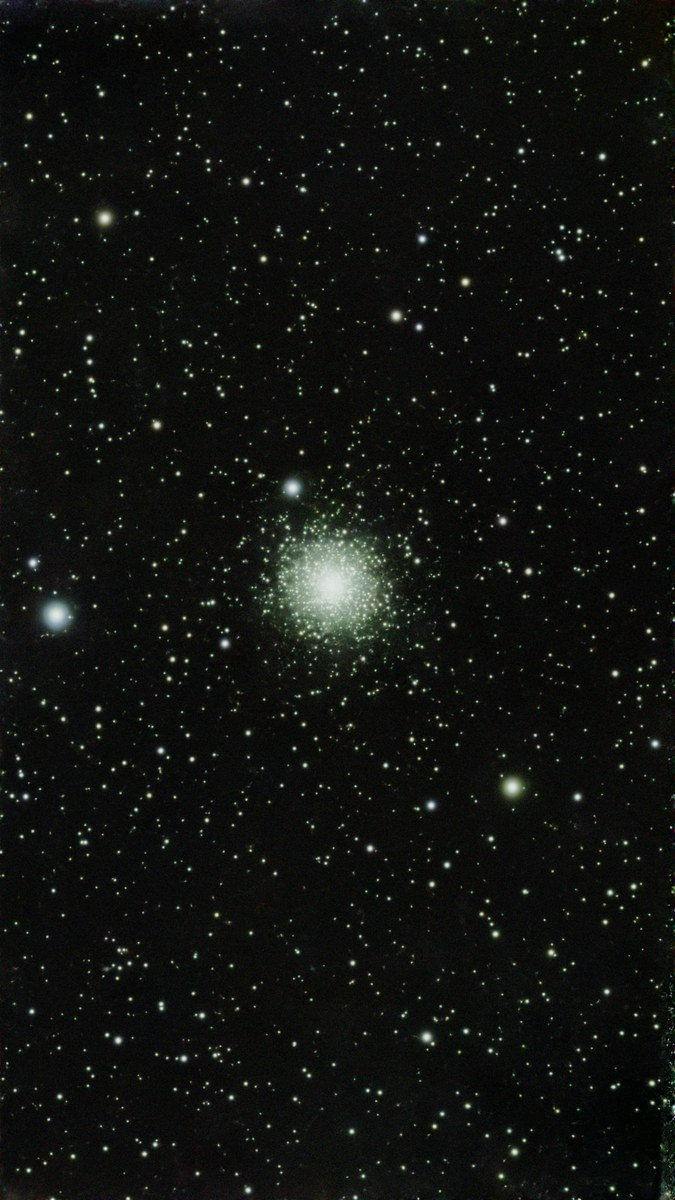
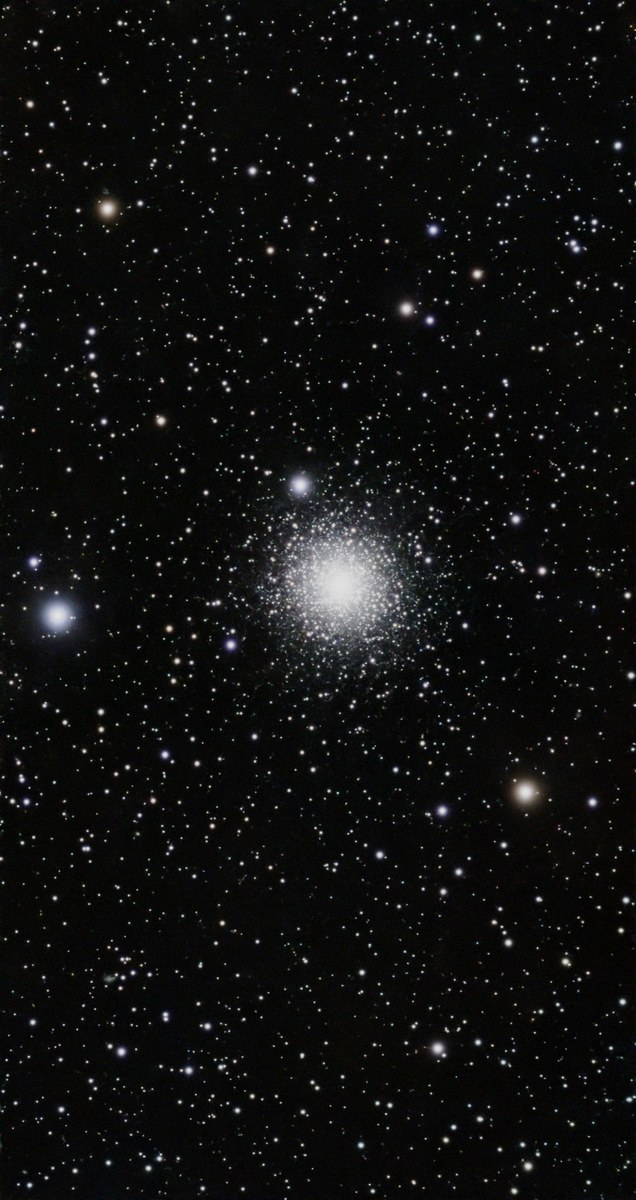
Nightly export: 2026-10-03

diff --git a/gallery.html b/gallery.html
@@ -89,114 +89,114 @@ FINISH: unreviewed and undocumented is unfinished; this build ends with the fini
 <div class="meta"><h2 class="t">M 66</h2>
 <span class="s" title="NOVA's recorded assessment">NOVA / 8.3</span></div><div class="card-foot"><a class="recipe-link" href="/recipes/20260715_194614_seestar_galaxy/">Episode recipe →</a></div></article><article class="card"><figure><img src="img/ic-1805.jpg" alt="IC 1805" loading="lazy"></figure>
 <div class="meta"><h2 class="t">IC 1805</h2>
+<span class="s" title="NOVA's recorded assessment">NOVA / 8.2</span></div></article><article class="card"><figure><img src="img/m-8.jpg" alt="M 8" loading="lazy"></figure>
+<div class="meta"><h2 class="t">M 8</h2>
 <span class="s" title="NOVA's recorded assessment">NOVA / 8.2</span></div></article><article class="card"><figure><img src="img/m-42.jpg" alt="M 42" loading="lazy"></figure>
 <div class="meta"><h2 class="t">M 42</h2>
 <span class="s" title="NOVA's recorded assessment">NOVA / 8.2</span></div></article><article class="card"><figure><img src="img/m-101.jpg" alt="M 101" loading="lazy"></figure>
 <div class="meta"><h2 class="t">M 101</h2>
-<span class="s" title="NOVA's recorded assessment">NOVA / 8.2</span></div></article><article class="card"><figure><img src="img/m-8.jpg" alt="M 8" loading="lazy"></figure>
-<div class="meta"><h2 class="t">M 8</h2>
 <span class="s" title="NOVA's recorded assessment">NOVA / 8.2</span></div></article><article class="card"><figure><img src="img/m-45.jpg" alt="M 45" loading="lazy"></figure>
 <div class="meta"><h2 class="t">M 45</h2>
-<span class="s" title="NOVA's recorded assessment">NOVA / 8.2</span></div></article><article class="card"><figure><img src="img/m-13.jpg" alt="M 13" loading="lazy"></figure>
-<div class="meta"><h2 class="t">M 13</h2>
-<span class="s" title="NOVA's recorded assessment">NOVA / 7.8</span></div></article><article class="card"><figure><img src="img/ngc-7635.jpg" alt="NGC 7635" loading="lazy"></figure>
+<span class="s" title="NOVA's recorded assessment">NOVA / 8.2</span></div></article><article class="card"><figure><img src="img/ngc-7635.jpg" alt="NGC 7635" loading="lazy"></figure>
 <div class="meta"><h2 class="t">NGC 7635</h2>
-<span class="s" title="NOVA's recorded assessment">NOVA / 7.8</span></div></article><article class="card"><figure><img src="img/m-83.jpg" alt="M 83" loading="lazy"></figure>
-<div class="meta"><h2 class="t">M 83</h2>
-<span class="s" title="NOVA's recorded assessment">NOVA / 7.8</span></div></article><article class="card"><figure><img src="img/m-20.jpg" alt="M 20" loading="lazy"></figure>
-<div class="meta"><h2 class="t">M 20</h2>
-<span class="s" title="NOVA's recorded assessment">NOVA / 7.8</span></div></article><article class="card"><figure><img src="img/ngc-2359.jpg" alt="NGC 2359" loading="lazy"></figure>
-<div class="meta"><h2 class="t">NGC 2359</h2>
-<span class="s" title="NOVA's recorded assessment">NOVA / 7.8</span></div><div class="card-foot"><a class="recipe-link" href="/recipes/20260711_021336_seestar_nebula/">Episode recipe →</a></div></article><article class="card"><figure><img src="img/m-81.jpg" alt="M 81" loading="lazy"></figure>
-<div class="meta"><h2 class="t">M 81</h2>
-<span class="s" title="NOVA's recorded assessment">NOVA / 7.8</span></div></article><article class="card"><figure><img src="img/ngc-6888.jpg" alt="NGC 6888" loading="lazy"></figure>
-<div class="meta"><h2 class="t">NGC 6888</h2>
-<span class="s" title="NOVA's recorded assessment">NOVA / 7.8</span></div></article><article class="card"><figure><img src="img/sh-2-298.jpg" alt="SH 2-298" loading="lazy"></figure>
-<div class="meta"><h2 class="t">SH 2-298</h2>
 <span class="s" title="NOVA's recorded assessment">NOVA / 7.8</span></div></article><article class="card"><figure><img src="img/m-33.jpg" alt="M 33" loading="lazy"></figure>
 <div class="meta"><h2 class="t">M 33</h2>
+<span class="s" title="NOVA's recorded assessment">NOVA / 7.8</span></div></article><article class="card"><figure><img src="img/m-83.jpg" alt="M 83" loading="lazy"></figure>
+<div class="meta"><h2 class="t">M 83</h2>
+<span class="s" title="NOVA's recorded assessment">NOVA / 7.8</span></div></article><article class="card"><figure><img src="img/ngc-2359.jpg" alt="NGC 2359" loading="lazy"></figure>
+<div class="meta"><h2 class="t">NGC 2359</h2>
+<span class="s" title="NOVA's recorded assessment">NOVA / 7.8</span></div><div class="card-foot"><a class="recipe-link" href="/recipes/20260711_021336_seestar_nebula/">Episode recipe →</a></div></article><article class="card"><figure><img src="img/ngc-6888.jpg" alt="NGC 6888" loading="lazy"></figure>
+<div class="meta"><h2 class="t">NGC 6888</h2>
 <span class="s" title="NOVA's recorded assessment">NOVA / 7.8</span></div></article><article class="card"><figure><img src="img/m-27.jpg" alt="M 27" loading="lazy"></figure>
 <div class="meta"><h2 class="t">M 27</h2>
+<span class="s" title="NOVA's recorded assessment">NOVA / 7.8</span></div></article><article class="card"><figure><img src="img/m-81.jpg" alt="M 81" loading="lazy"></figure>
+<div class="meta"><h2 class="t">M 81</h2>
+<span class="s" title="NOVA's recorded assessment">NOVA / 7.8</span></div></article><article class="card"><figure><img src="img/m-13.jpg" alt="M 13" loading="lazy"></figure>
+<div class="meta"><h2 class="t">M 13</h2>
 <span class="s" title="NOVA's recorded assessment">NOVA / 7.8</span></div></article><article class="card"><figure><img src="img/m-16.jpg" alt="M 16" loading="lazy"></figure>
 <div class="meta"><h2 class="t">M 16</h2>
+<span class="s" title="NOVA's recorded assessment">NOVA / 7.8</span></div></article><article class="card"><figure><img src="img/sh-2-298.jpg" alt="SH 2-298" loading="lazy"></figure>
+<div class="meta"><h2 class="t">SH 2-298</h2>
+<span class="s" title="NOVA's recorded assessment">NOVA / 7.8</span></div></article><article class="card"><figure><img src="img/m-20.jpg" alt="M 20" loading="lazy"></figure>
+<div class="meta"><h2 class="t">M 20</h2>
 <span class="s" title="NOVA's recorded assessment">NOVA / 7.8</span></div></article><article class="card"><figure><img src="img/ic-1396.jpg" alt="IC 1396" loading="lazy"></figure>
 <div class="meta"><h2 class="t">IC 1396</h2>
-<span class="s" title="NOVA's recorded assessment">NOVA / 7.2</span></div></article><article class="card"><figure><img src="img/m-17.jpg" alt="M 17" loading="lazy"></figure>
-<div class="meta"><h2 class="t">M 17</h2>
-<span class="s" title="NOVA's recorded assessment">NOVA / 7.2</span></div></article><article class="card"><figure><img src="img/m-109.jpg" alt="M 109" loading="lazy"></figure>
-<div class="meta"><h2 class="t">M 109</h2>
-<span class="s" title="NOVA's recorded assessment">NOVA / 7.2</span></div></article><article class="card"><figure><img src="img/c-80.jpg" alt="C 80" loading="lazy"></figure>
-<div class="meta"><h2 class="t">C 80</h2>
-<span class="s" title="NOVA's recorded assessment">NOVA / 7.2</span></div></article><article class="card"><figure><img src="img/ngc-188.jpg" alt="NGC 188" loading="lazy"></figure>
-<div class="meta"><h2 class="t">NGC 188</h2>
-<span class="s" title="NOVA's recorded assessment">NOVA / 7.2</span></div></article><article class="card"><figure><img src="img/ic-342.jpg" alt="IC 342" loading="lazy"></figure>
-<div class="meta"><h2 class="t">IC 342</h2>
-<span class="s" title="NOVA's recorded assessment">NOVA / 7.2</span></div></article><article class="card"><figure><img src="img/c-77.jpg" alt="C 77" loading="lazy"></figure>
-<div class="meta"><h2 class="t">C 77</h2>
-<span class="s" title="NOVA's recorded assessment">NOVA / 7.2</span></div></article><article class="card"><figure><img src="img/m-56.jpg" alt="M 56" loading="lazy"></figure>
-<div class="meta"><h2 class="t">M 56</h2>
-<span class="s" title="NOVA's recorded assessment">NOVA / 7.2</span></div></article><article class="card"><figure><img src="img/ngc-6914.jpg" alt="NGC 6914" loading="lazy"></figure>
-<div class="meta"><h2 class="t">NGC 6914</h2>
-<span class="s" title="NOVA's recorded assessment">NOVA / 7.2</span></div></article><article class="card"><figure><img src="img/ngc-2175.jpg" alt="NGC 2175" loading="lazy"></figure>
-<div class="meta"><h2 class="t">NGC 2175</h2>
-<span class="s" title="NOVA's recorded assessment">NOVA / 7.2</span></div></article><article class="card"><figure><img src="img/sh-2-142.jpg" alt="SH 2- 142" loading="lazy"></figure>
-<div class="meta"><h2 class="t">SH 2- 142</h2>
-<span class="s" title="NOVA's recorded assessment">NOVA / 7.2</span></div></article><article class="card"><figure><img src="img/m-57.jpg" alt="M 57" loading="lazy"></figure>
-<div class="meta"><h2 class="t">M 57</h2>
-<span class="s" title="NOVA's recorded assessment">NOVA / 7.2</span></div></article><article class="card"><figure><img src="img/ngc-7023.jpg" alt="NGC 7023" loading="lazy"></figure>
-<div class="meta"><h2 class="t">NGC 7023</h2>
-<span class="s" title="NOVA's recorded assessment">NOVA / 7.2</span></div></article><article class="card"><figure><img src="img/m-3.jpg" alt="M 3" loading="lazy"></figure>
-<div class="meta"><h2 class="t">M 3</h2>
-<span class="s" title="NOVA's recorded assessment">NOVA / 7.2</span></div></article><article class="card"><figure><img src="img/m-92.jpg" alt="M 92" loading="lazy"></figure>
-<div class="meta"><h2 class="t">M 92</h2>
-<span class="s" title="NOVA's recorded assessment">NOVA / 7.2</span></div></article><article class="card"><figure><img src="img/ngc-7331.jpg" alt="NGC 7331" loading="lazy"></figure>
-<div class="meta"><h2 class="t">NGC 7331</h2>
-<span class="s" title="NOVA's recorded assessment">NOVA / 7.2</span></div></article><article class="card"><figure><img src="img/sh2-101.jpg" alt="SH2-101" loading="lazy"></figure>
-<div class="meta"><h2 class="t">SH2-101</h2>
 <span class="s" title="NOVA's recorded assessment">NOVA / 7.2</span></div></article><article class="card"><figure><img src="img/ngc-4565.jpg" alt="NGC 4565" loading="lazy"></figure>
 <div class="meta"><h2 class="t">NGC 4565</h2>
+<span class="s" title="NOVA's recorded assessment">NOVA / 7.2</span></div></article><article class="card"><figure><img src="img/c-77.jpg" alt="C 77" loading="lazy"></figure>
+<div class="meta"><h2 class="t">C 77</h2>
+<span class="s" title="NOVA's recorded assessment">NOVA / 7.2</span></div></article><article class="card"><figure><img src="img/m-15.jpg" alt="M 15" loading="lazy"></figure>
+<div class="meta"><h2 class="t">M 15</h2>
+<span class="s" title="NOVA's recorded assessment">NOVA / 7.2</span></div></article><article class="card"><figure><img src="img/m-3.jpg" alt="M 3" loading="lazy"></figure>
+<div class="meta"><h2 class="t">M 3</h2>
+<span class="s" title="NOVA's recorded assessment">NOVA / 7.2</span></div></article><article class="card"><figure><img src="img/m-57.jpg" alt="M 57" loading="lazy"></figure>
+<div class="meta"><h2 class="t">M 57</h2>
+<span class="s" title="NOVA's recorded assessment">NOVA / 7.2</span></div></article><article class="card"><figure><img src="img/ngc-188.jpg" alt="NGC 188" loading="lazy"></figure>
+<div class="meta"><h2 class="t">NGC 188</h2>
+<span class="s" title="NOVA's recorded assessment">NOVA / 7.2</span></div></article><article class="card"><figure><img src="img/ngc-2175.jpg" alt="NGC 2175" loading="lazy"></figure>
+<div class="meta"><h2 class="t">NGC 2175</h2>
+<span class="s" title="NOVA's recorded assessment">NOVA / 7.2</span></div></article><article class="card"><figure><img src="img/ngc-6914.jpg" alt="NGC 6914" loading="lazy"></figure>
+<div class="meta"><h2 class="t">NGC 6914</h2>
+<span class="s" title="NOVA's recorded assessment">NOVA / 7.2</span></div></article><article class="card"><figure><img src="img/m-92.jpg" alt="M 92" loading="lazy"></figure>
+<div class="meta"><h2 class="t">M 92</h2>
+<span class="s" title="NOVA's recorded assessment">NOVA / 7.2</span></div></article><article class="card"><figure><img src="img/ngc-7023.jpg" alt="NGC 7023" loading="lazy"></figure>
+<div class="meta"><h2 class="t">NGC 7023</h2>
+<span class="s" title="NOVA's recorded assessment">NOVA / 7.2</span></div></article><article class="card"><figure><img src="img/sh2-101.jpg" alt="SH2-101" loading="lazy"></figure>
+<div class="meta"><h2 class="t">SH2-101</h2>
 <span class="s" title="NOVA's recorded assessment">NOVA / 7.2</span></div></article><article class="card"><figure><img src="img/c-9.jpg" alt="C 9" loading="lazy"></figure>
 <div class="meta"><h2 class="t">C 9</h2>
+<span class="s" title="NOVA's recorded assessment">NOVA / 7.2</span></div></article><article class="card"><figure><img src="img/ic-342.jpg" alt="IC 342" loading="lazy"></figure>
+<div class="meta"><h2 class="t">IC 342</h2>
+<span class="s" title="NOVA's recorded assessment">NOVA / 7.2</span></div></article><article class="card"><figure><img src="img/m-109.jpg" alt="M 109" loading="lazy"></figure>
+<div class="meta"><h2 class="t">M 109</h2>
 <span class="s" title="NOVA's recorded assessment">NOVA / 7.2</span></div></article><article class="card"><figure><img src="img/m-1.jpg" alt="M 1" loading="lazy"></figure>
 <div class="meta"><h2 class="t">M 1</h2>
-<span class="s" title="NOVA's recorded assessment">NOVA / 7.2</span></div><div class="card-foot"><a class="recipe-link" href="/recipes/20260722_063635_seestar_broadband/">Episode recipe →</a></div></article><article class="card"><figure><img src="img/m-97.jpg" alt="M 97" loading="lazy"></figure>
+<span class="s" title="NOVA's recorded assessment">NOVA / 7.2</span></div><div class="card-foot"><a class="recipe-link" href="/recipes/20260722_063635_seestar_broadband/">Episode recipe →</a></div></article><article class="card"><figure><img src="img/c-80.jpg" alt="C 80" loading="lazy"></figure>
+<div class="meta"><h2 class="t">C 80</h2>
+<span class="s" title="NOVA's recorded assessment">NOVA / 7.2</span></div></article><article class="card"><figure><img src="img/ngc-7331.jpg" alt="NGC 7331" loading="lazy"></figure>
+<div class="meta"><h2 class="t">NGC 7331</h2>
+<span class="s" title="NOVA's recorded assessment">NOVA / 7.2</span></div></article><article class="card"><figure><img src="img/m-56.jpg" alt="M 56" loading="lazy"></figure>
+<div class="meta"><h2 class="t">M 56</h2>
+<span class="s" title="NOVA's recorded assessment">NOVA / 7.2</span></div></article><article class="card"><figure><img src="img/sh-2-142.jpg" alt="SH 2- 142" loading="lazy"></figure>
+<div class="meta"><h2 class="t">SH 2- 142</h2>
+<span class="s" title="NOVA's recorded assessment">NOVA / 7.2</span></div></article><article class="card"><figure><img src="img/m-17.jpg" alt="M 17" loading="lazy"></figure>
+<div class="meta"><h2 class="t">M 17</h2>
+<span class="s" title="NOVA's recorded assessment">NOVA / 7.2</span></div></article><article class="card"><figure><img src="img/m-52.jpg" alt="M 52" loading="lazy"></figure>
+<div class="meta"><h2 class="t">M 52</h2>
+<span class="s" title="NOVA's recorded assessment">NOVA / 7.0</span></div></article><article class="card"><figure><img src="img/m-97.jpg" alt="M 97" loading="lazy"></figure>
 <div class="meta"><h2 class="t">M 97</h2>
 <span class="s" title="NOVA's recorded assessment">NOVA / 7.0</span></div></article><article class="card"><figure><img src="img/sh-2-273.jpg" alt="SH 2- 273" loading="lazy"></figure>
 <div class="meta"><h2 class="t">SH 2- 273</h2>
 <span class="s" title="NOVA's recorded assessment">NOVA / 7.0</span></div></article><article class="card"><figure><img src="img/m-94.jpg" alt="M 94" loading="lazy"></figure>
 <div class="meta"><h2 class="t">M 94</h2>
-<span class="s" title="NOVA's recorded assessment">NOVA / 6.8</span></div></article><article class="card"><figure><img src="img/m-12.jpg" alt="M 12" loading="lazy"></figure>
-<div class="meta"><h2 class="t">M 12</h2>
-<span class="s" title="NOVA's recorded assessment">NOVA / 6.8</span></div></article><article class="card"><figure><img src="img/m-105.jpg" alt="M 105" loading="lazy"></figure>
-<div class="meta"><h2 class="t">M 105</h2>
 <span class="s" title="NOVA's recorded assessment">NOVA / 6.8</span></div></article><article class="card"><figure><img src="img/ngc-6334.jpg" alt="NGC 6334" loading="lazy"></figure>
 <div class="meta"><h2 class="t">NGC 6334</h2>
 <span class="s" title="NOVA's recorded assessment">NOVA / 6.8</span></div></article><article class="card"><figure><img src="img/m-100.jpg" alt="M 100" loading="lazy"></figure>
 <div class="meta"><h2 class="t">M 100</h2>
+<span class="s" title="NOVA's recorded assessment">NOVA / 6.8</span></div></article><article class="card"><figure><img src="img/m-12.jpg" alt="M 12" loading="lazy"></figure>
+<div class="meta"><h2 class="t">M 12</h2>
+<span class="s" title="NOVA's recorded assessment">NOVA / 6.8</span></div></article><article class="card"><figure><img src="img/m-105.jpg" alt="M 105" loading="lazy"></figure>
+<div class="meta"><h2 class="t">M 105</h2>
 <span class="s" title="NOVA's recorded assessment">NOVA / 6.8</span></div></article><article class="card"><figure><img src="img/m-71.jpg" alt="M 71" loading="lazy"></figure>
 <div class="meta"><h2 class="t">M 71</h2>
 <span class="s" title="NOVA's recorded assessment">NOVA / 6.7</span></div></article><article class="card"><figure><img src="img/m-102.jpg" alt="M 102" loading="lazy"></figure>
 <div class="meta"><h2 class="t">M 102</h2>
 <span class="s" title="NOVA's recorded assessment">NOVA / 6.6</span></div></article><article class="card"><figure><img src="img/m-39.jpg" alt="M 39" loading="lazy"></figure>
 <div class="meta"><h2 class="t">M 39</h2>
-<span class="s" title="NOVA's recorded assessment">NOVA / 6.6</span></div></article><article class="card"><figure><img src="img/m-34.jpg" alt="M 34" loading="lazy"></figure>
-<div class="meta"><h2 class="t">M 34</h2>
-<span class="s" title="NOVA's recorded assessment">NOVA / 6.3</span></div></article><article class="card"><figure><img src="img/m-91.jpg" alt="M 91" loading="lazy"></figure>
+<span class="s" title="NOVA's recorded assessment">NOVA / 6.6</span></div></article><article class="card"><figure><img src="img/m-91.jpg" alt="M 91" loading="lazy"></figure>
 <div class="meta"><h2 class="t">M 91</h2>
 <span class="s" title="NOVA's recorded assessment">NOVA / 6.3</span></div></article><article class="card"><figure><img src="img/m-29.jpg" alt="M 29" loading="lazy"></figure>
 <div class="meta"><h2 class="t">M 29</h2>
-<span class="s" title="NOVA's recorded assessment">NOVA / 6.3</span></div></article><article class="card"><figure><img src="img/c-19.jpg" alt="C 19" loading="lazy"></figure>
-<div class="meta"><h2 class="t">C 19</h2>
-<span class="s" title="NOVA's recorded assessment">NOVA / 6.2</span></div></article><article class="card"><figure><img src="img/ic-5146.jpg" alt="IC 5146" loading="lazy"></figure>
-<div class="meta"><h2 class="t">IC 5146</h2>
-<span class="s" title="NOVA's recorded assessment">NOVA / 6.2</span></div></article><article class="card"><figure><img src="img/m-85.jpg" alt="M 85" loading="lazy"></figure>
+<span class="s" title="NOVA's recorded assessment">NOVA / 6.3</span></div></article><article class="card"><figure><img src="img/m-34.jpg" alt="M 34" loading="lazy"></figure>
+<div class="meta"><h2 class="t">M 34</h2>
+<span class="s" title="NOVA's recorded assessment">NOVA / 6.3</span></div></article><article class="card"><figure><img src="img/m-85.jpg" alt="M 85" loading="lazy"></figure>
 <div class="meta"><h2 class="t">M 85</h2>
-<span class="s" title="NOVA's recorded assessment">NOVA / 6.2</span></div></article><article class="card"><figure><img src="img/m-10.jpg" alt="M 10" loading="lazy"></figure>
-<div class="meta"><h2 class="t">M 10</h2>
-<span class="s" title="NOVA's recorded assessment">NOVA / 6.2</span></div></article><article class="card"><figure><img src="img/m-108.jpg" alt="M 108" loading="lazy"></figure>
-<div class="meta"><h2 class="t">M 108</h2>
 <span class="s" title="NOVA's recorded assessment">NOVA / 6.2</span></div></article><article class="card"><figure><img src="img/ngc-4244.jpg" alt="NGC 4244" loading="lazy"></figure>
 <div class="meta"><h2 class="t">NGC 4244</h2>
+<span class="s" title="NOVA's recorded assessment">NOVA / 6.2</span></div></article><article class="card"><figure><img src="img/m-108.jpg" alt="M 108" loading="lazy"></figure>
+<div class="meta"><h2 class="t">M 108</h2>
+<span class="s" title="NOVA's recorded assessment">NOVA / 6.2</span></div></article><article class="card"><figure><img src="img/c-19.jpg" alt="C 19" loading="lazy"></figure>
+<div class="meta"><h2 class="t">C 19</h2>
 <span class="s" title="NOVA's recorded assessment">NOVA / 6.2</span></div></article></div></main><footer><div>NOVA / bounded decisions · recorded evidence · human review<br>
 <a href="https://github.com/measurethepixels/nova">GitHub</a> · <a href="https://www.youtube.com/@measurethepixels">YouTube</a> · <a href="privacy.html">Privacy</a></div>
 <div class="footer-tag">Measure the pixels. Make the call.<br>

diff --git a/index.html b/index.html
@@ -120,18 +120,18 @@ before NOVA is presented as a supported release.</div>
 <div class="meta"><h2 class="t">M 66</h2>
 <span class="s" title="NOVA's recorded assessment">NOVA / 8.3</span></div><div class="card-foot"><a class="recipe-link" href="/recipes/20260715_194614_seestar_galaxy/">Episode recipe →</a></div></article><article class="card"><figure><img src="img/ic-1805.jpg" alt="IC 1805" loading="lazy"></figure>
 <div class="meta"><h2 class="t">IC 1805</h2>
+<span class="s" title="NOVA's recorded assessment">NOVA / 8.2</span></div></article><article class="card"><figure><img src="img/m-8.jpg" alt="M 8" loading="lazy"></figure>
+<div class="meta"><h2 class="t">M 8</h2>
 <span class="s" title="NOVA's recorded assessment">NOVA / 8.2</span></div></article><article class="card"><figure><img src="img/m-42.jpg" alt="M 42" loading="lazy"></figure>
 <div class="meta"><h2 class="t">M 42</h2>
 <span class="s" title="NOVA's recorded assessment">NOVA / 8.2</span></div></article><article class="card"><figure><img src="img/m-101.jpg" alt="M 101" loading="lazy"></figure>
 <div class="meta"><h2 class="t">M 101</h2>
-<span class="s" title="NOVA's recorded assessment">NOVA / 8.2</span></div></article><article class="card"><figure><img src="img/m-8.jpg" alt="M 8" loading="lazy"></figure>
-<div class="meta"><h2 class="t">M 8</h2>
 <span class="s" title="NOVA's recorded assessment">NOVA / 8.2</span></div></article><article class="card"><figure><img src="img/m-45.jpg" alt="M 45" loading="lazy"></figure>
 <div class="meta"><h2 class="t">M 45</h2>
-<span class="s" title="NOVA's recorded assessment">NOVA / 8.2</span></div></article><article class="card"><figure><img src="img/m-13.jpg" alt="M 13" loading="lazy"></figure>
-<div class="meta"><h2 class="t">M 13</h2>
-<span class="s" title="NOVA's recorded assessment">NOVA / 7.8</span></div></article><article class="card"><figure><img src="img/ngc-7635.jpg" alt="NGC 7635" loading="lazy"></figure>
+<span class="s" title="NOVA's recorded assessment">NOVA / 8.2</span></div></article><article class="card"><figure><img src="img/ngc-7635.jpg" alt="NGC 7635" loading="lazy"></figure>
 <div class="meta"><h2 class="t">NGC 7635</h2>
+<span class="s" title="NOVA's recorded assessment">NOVA / 7.8</span></div></article><article class="card"><figure><img src="img/m-33.jpg" alt="M 33" loading="lazy"></figure>
+<div class="meta"><h2 class="t">M 33</h2>
 <span class="s" title="NOVA's recorded assessment">NOVA / 7.8</span></div></article></div></section></main><footer><div>NOVA / bounded decisions · recorded evidence · human review<br>
 <a href="https://github.com/measurethepixels/nova">GitHub</a> · <a href="https://www.youtube.com/@measurethepixels">YouTube</a> · <a href="privacy.html">Privacy</a></div>
 <div class="footer-tag">Measure the pixels. Make the call.<br>

diff --git a/changelog.html b/changelog.html
@@ -89,6 +89,9 @@ FINISH: unreviewed and undocumented is unfinished; this build ends with the fini
 <p>Updating an engine is <b>not</b> a semver bump on its own (these are environment state); bump only if pipeline *code* changes in response to the new engine.</p>
 <p><b>2026-08-31 provenance exception:</b> at Henry&#x27;s direction, workflow 1.26.0 creates a run-version boundary for the promoted local BXT ML5 and SASpro 1.21.0 model stack even though pipeline code did not change. This is warranted because model changes can alter output pixels and critiques need to distinguish runs made before and after the promotion. It does not claim that the RC-Astro RunPod 2.6.6 image is live.</p>
 <p>---</p>
+<h2>2.1.0 — 2026-10-02 (minor)</h2>
+<p>Restore <b>PI SPCC for broadband</b> colour calibration after the controlled M 31 A/B and 12-target comparison in #951 found systematic green excess and suppressed blue with SSSC, including Stage 3. LP (dual-narrowband) retains its existing SSSC path. Explicit <code>extra_params[&quot;allow_sssc&quot;]</code> overrides either default per run for diagnostics. Direct <code>seti_astro.spcc()</code> callers retain their existing default.</p>
+<p>This Henry-approved mitigation changes output while keeping scoring comparability with 2.0.0. SSSC corrections and LP validation remain follow-ups. Live acceptance requires the post-deploy broadband run and M 31 render comparison specified in #951.</p>
 <h2>2.0.0 — 2026-10-01 (major)</h2>
 <p>Henry-approved Claude API migration (#939): Sonnet 5.5 grades and linear planning, Opus 5.5 nonlinear planning, and undated Haiku 4.5 prose/eval. Sonnet/Opus use explicit high effort and server-side refusal fallbacks with <code>anthropic==0.125.0</code>. Final refusals enter existing physics/default paths; diagnostics record refusal categories and fallback evidence. Small-cap adaptive calls reserve thinking budget and retry truncation once. Model provenance and current pricing are corrected.</p>
 <p>The scoring model changed: scores and Experiment Mode results before and after this boundary are <b>not directly comparable</b>. This entry records implementation, not deployment: SDK installation, restart, and a real autoprocess validation remain gated to Henry/Claude. No engine versions were changed or inferred.</p>
